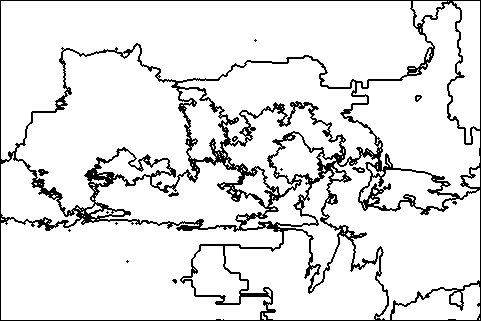
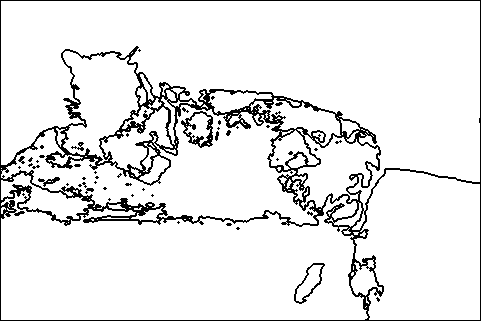
some sort of mutation

diff --git a/moea/src/main/java/moea/GA.java b/moea/src/main/java/moea/GA.java
@@ -3,10 +3,7 @@ package moea;
 import com.rits.cloning.Cloner;
 
 import java.lang.reflect.Array;
-import java.util.ArrayList;
-import java.util.Arrays;
-import java.util.List;
-import java.util.Random;
+import java.util.*;
 import java.util.concurrent.*;
 
 public class GA {
@@ -398,10 +395,12 @@ public class GA {
         temp.calculateEdgeValue();
         temp.fitness = temp.calculateFitness();
 
+        this.mutateNijaturtles(temp);
+        dg.drawSegments(temp.segments);
+        dg.drawTrace(temp, false, 10);
 
         return temp;
     }
-
 
     public void mutateChangePixelSegment(Chromosome c){
         Pixel pixel = c.edges.get(r.nextInt(c.edges.size()));
@@ -432,6 +431,38 @@ public class GA {
         c.calculateOverallDeviation();
         c.fitness = c.calculateFitness();
     }
+
+    public void mutateNijaturtles(Chromosome c){
+//        for hver edge, sjekke hver nabo, sjekk hvilket segment naboene tilhører. sett denne pixelen til å tilhø®e segmentet flest naboer tilhører
+        for(Pixel p : c.edges){
+            HashMap<Segment, Integer> counter = new HashMap<>();
+            Segment currentPixelSegment = p.segment;
+
+            for(Edge edge : p.getNeighbours()){
+                int value = counter.containsKey(edge.getNeighbourPixel().segment) ? counter.get(edge.getNeighbourPixel().segment) : 1;
+                counter.put(edge.getNeighbourPixel().segment, value + 1);
+            }
+
+            Segment nearestSegment = Collections.max(counter.entrySet(), (entry1, entry2) -> entry1.getValue() - entry2.getValue()).getKey();
+
+            if(nearestSegment.equals(currentPixelSegment)){
+                continue;
+            }
+
+            p.segment.pixels.remove(p);
+            p.segment = nearestSegment;
+            nearestSegment.addPixel(p);
+
+        }
+
+        c.findEdgePixels();
+        c.calculateEdgeValue();
+        c.calculateOverallDeviation();
+        c.fitness = c.calculateFitness();
+
+    }
+
+
 
     public static void main(String[] args) {
         GA g = new GA();

diff --git a/moea/src/main/java/moea/Chromosome.java b/moea/src/main/java/moea/Chromosome.java
@@ -295,6 +295,7 @@ public class Chromosome {
 
 
     public void findEdgePixels(){
+        edges.clear();
         int maxRow = Integer.MIN_VALUE;
         int maxCol = Integer.MIN_VALUE;
 
